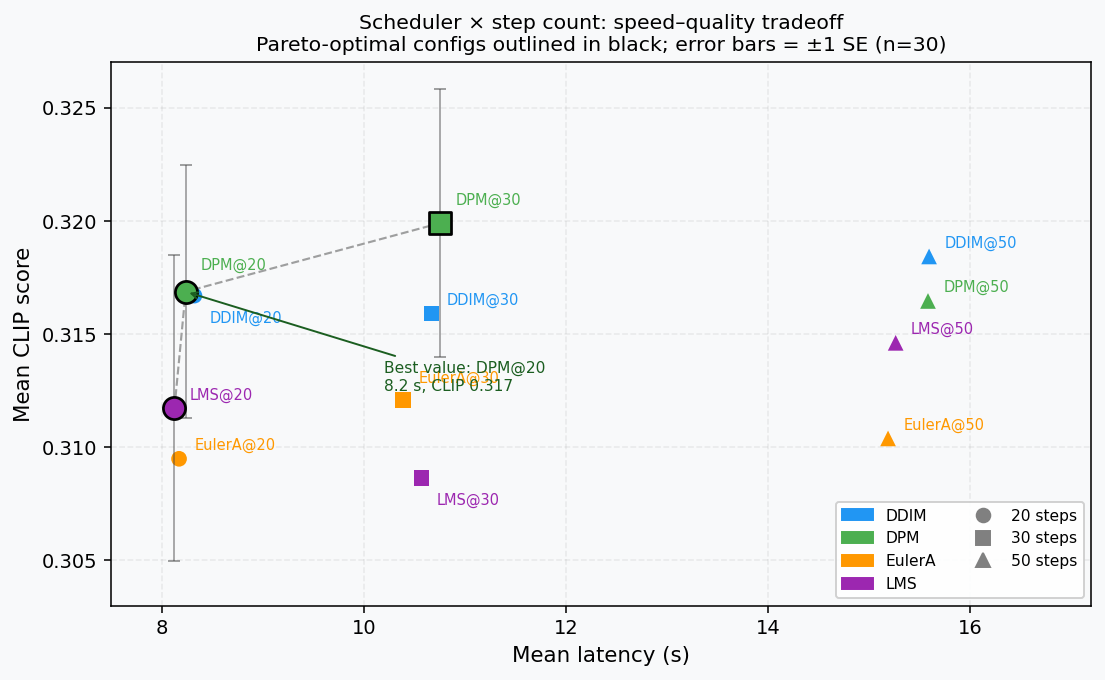
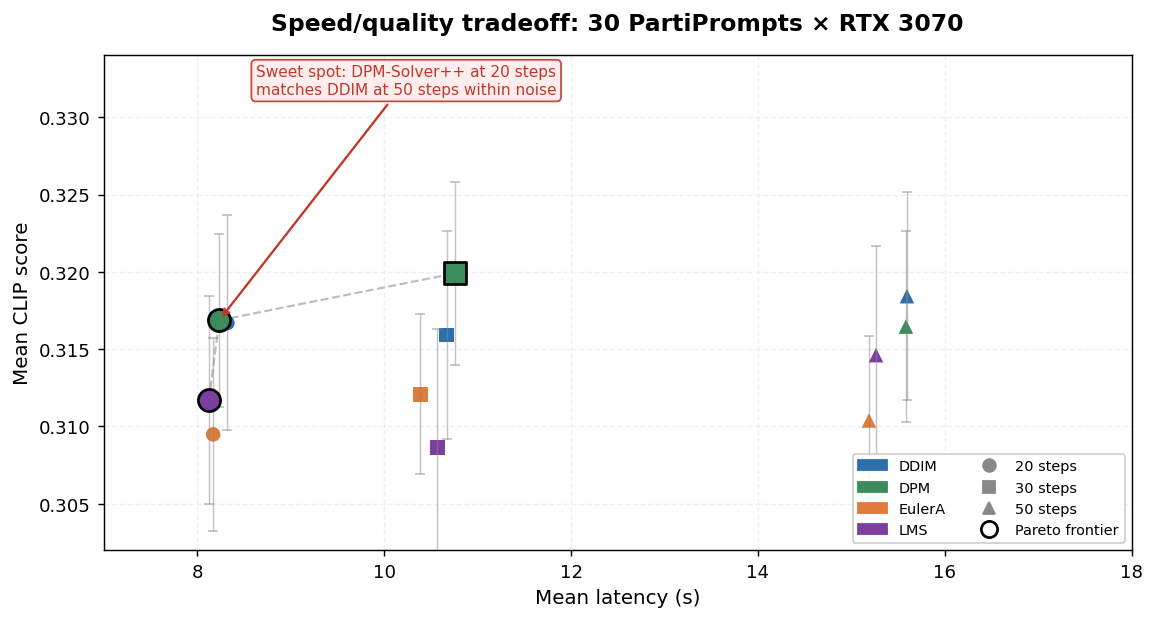
feat: regenerate benchmark charts with ChartCanvas; add hero image
- scripts/generate_benchmark_charts.py: new canonical chart script using
  ChartCanvas for collision-aware rendering; replaces _gen_findings_charts.py
  for the two Phase 4 charts
  - pareto_scatter: color=scheduler, shape=steps, RED callout on DPM@20,
    GREY error bars, frontier outlined in black, validate() passes clean
  - variance_decomposition: same y-axis scale on both panels (0.238-0.395);
    flat right panel is the visual finding; range annotations on both
- docs/gallery/00_hero_tokyo_neon_rain.png: copied from hero_candidates
  (gitignored), now tracked for use as the README hero
- .flake8: add E402 ignore for generate_benchmark_charts.py

diff --git a/scripts/generate_benchmark_charts.py b/scripts/generate_benchmark_charts.py
@@ -1,0 +1,265 @@
+"""
+Generate two benchmark charts for reports/findings.md.
+
+Reads:  reports/eval_results_20260425_124153.json
+Writes: reports/eval_charts/pareto_scatter.png
+        reports/eval_charts/variance_decomposition.png
+
+Run from project root:
+    python scripts/generate_benchmark_charts.py
+"""
+
+from __future__ import annotations
+
+import json
+import statistics
+import sys
+from collections import defaultdict
+from pathlib import Path
+
+ROOT = Path(__file__).resolve().parent.parent
+sys.path.insert(0, str(ROOT))
+
+import matplotlib  # noqa: E402
+
+matplotlib.use("Agg")  # must precede any pyplot import
+import matplotlib.lines as mlines  # noqa: E402
+import matplotlib.patches as mpatches  # noqa: E402
+import matplotlib.pyplot as plt  # noqa: E402
+import numpy as np  # noqa: E402
+
+from aetherart.visualization import (  # noqa: E402
+    BLUE,
+    GREEN,
+    GREY,
+    ORANGE,
+    PURPLE,
+    RED,
+    ChartCanvas,
+)
+
+DATA = ROOT / "reports" / "eval_results_20260425_124153.json"
+CHARTS = ROOT / "reports" / "eval_charts"
+CHARTS.mkdir(exist_ok=True)
+
+with open(DATA) as f:
+    d = json.load(f)
+results = d["results"]
+
+SCHEDULERS = ["DDIM", "DPM", "EulerA", "LMS"]
+STEPS = [20, 30, 50]
+SCHED_COLOR = {"DDIM": BLUE, "DPM": GREEN, "EulerA": ORANGE, "LMS": PURPLE}
+MARKER = {20: "o", 30: "s", 50: "^"}
+
+# ── Per-(scheduler, steps) aggregates ────────────────────────────────────────
+by_key: dict = defaultdict(list)
+for r in results:
+    by_key[(r["scheduler"], r["steps"])].append((r["clip_score"], r["latency_s"]))
+
+points = []
+for sched in SCHEDULERS:
+    for steps in STEPS:
+        vals = by_key[(sched, steps)]
+        clips = [v[0] for v in vals]
+        lats = [v[1] for v in vals]
+        points.append(
+            {
+                "sched": sched,
+                "steps": steps,
+                "clip": statistics.mean(clips),
+                "lat": statistics.mean(lats),
+                "se": statistics.stdev(clips) / len(clips) ** 0.5,
+            }
+        )
+
+# Pareto frontier: minimize latency AND maximize CLIP
+sorted_pts = sorted(points, key=lambda p: p["lat"])
+frontier: list = []
+max_clip = -1.0
+for p in sorted_pts:
+    if p["clip"] > max_clip:
+        frontier.append(p)
+        max_clip = p["clip"]
+
+# ── Chart 1: Speed–quality Pareto scatter ────────────────────────────────────
+canvas = ChartCanvas(
+    figsize=(9, 5.5),
+    title="Speed/quality tradeoff: 30 PartiPrompts × RTX 3070",
+    ylabel="Mean CLIP score",
+    xlabel="Mean latency (s)",
+    top_margin_pct=0.22,
+)
+canvas.set_ylim(0.302, 0.334)
+
+for p in points:
+    on_frontier = p in frontier
+    canvas.ax.scatter(
+        p["lat"],
+        p["clip"],
+        color=SCHED_COLOR[p["sched"]],
+        marker=MARKER[p["steps"]],
+        s=150 if on_frontier else 65,
+        zorder=3 if on_frontier else 2,
+        edgecolors="black" if on_frontier else "none",
+        linewidths=1.5 if on_frontier else 0,
+    )
+    canvas.ax.errorbar(
+        p["lat"],
+        p["clip"],
+        yerr=p["se"],
+        fmt="none",
+        color=GREY,
+        capsize=3,
+        linewidth=0.8,
+        alpha=0.5,
+    )
+
+# Dashed frontier line
+fpts = sorted(frontier, key=lambda p: p["lat"])
+canvas.ax.plot(
+    [p["lat"] for p in fpts],
+    [p["clip"] for p in fpts],
+    "--",
+    color=GREY,
+    linewidth=1.2,
+    alpha=0.55,
+    zorder=1,
+)
+
+# RED callout on DPM@20 (the sweet spot)
+dpm20 = next(p for p in points if p["sched"] == "DPM" and p["steps"] == 20)
+canvas.add_callout(
+    target_x=dpm20["lat"],
+    target_y=dpm20["clip"],
+    text="Sweet spot: DPM-Solver++ at 20 steps\nmatches DDIM at 50 steps within noise",
+    placement="top",
+    color=RED,
+    fontsize=8.5,
+    x_offset=2.0,
+)
+
+# Legend: color = scheduler, shape = step count, black edge = frontier
+sched_handles = [mpatches.Patch(color=SCHED_COLOR[s], label=s) for s in SCHEDULERS]
+step_handles = [
+    mlines.Line2D(
+        [],
+        [],
+        color=GREY,
+        marker=MARKER[st],
+        linestyle="None",
+        markersize=7,
+        label=f"{st} steps",
+    )
+    for st in STEPS
+]
+frontier_handle = mlines.Line2D(
+    [],
+    [],
+    color="black",
+    marker="o",
+    linestyle="None",
+    markersize=9,
+    markeredgewidth=1.5,
+    markerfacecolor="none",
+    label="Pareto frontier",
+)
+canvas.ax.legend(
+    handles=sched_handles + step_handles + [frontier_handle],
+    fontsize=8,
+    loc="lower right",
+    framealpha=0.9,
+    ncol=2,
+)
+canvas.ax.set_xlim(7.0, 18.0)
+canvas.ax.grid(True, alpha=0.18, linestyle="--")
+
+canvas.save(str(CHARTS / "pareto_scatter.png"))
+
+
+# ── Chart 2: Variance decomposition ──────────────────────────────────────────
+by_prompt: dict = defaultdict(list)
+by_sched: dict = defaultdict(list)
+for r in results:
+    by_prompt[r["prompt_id"]].append(r["clip_score"])
+    by_sched[r["scheduler"]].append(r["clip_score"])
+
+prompt_means = sorted(statistics.mean(v) for v in by_prompt.values())
+
+# Sort schedulers by mean CLIP ascending so the spread is most visible
+sched_sorted = sorted(
+    [(s, statistics.mean(by_sched[s])) for s in SCHEDULERS],
+    key=lambda x: x[1],
+)
+sched_names = [x[0] for x in sched_sorted]
+sched_vals = np.array([x[1] for x in sched_sorted])
+
+# Same y-axis scale on both panels — the flat right panel is the point
+YMIN, YMAX = 0.238, 0.395
+
+fig, (ax_left, ax_right) = plt.subplots(1, 2, figsize=(11, 5.5))
+fig.patch.set_facecolor("white")
+
+# Left: per-prompt strip chart
+left = ChartCanvas.from_axes(
+    ax_left, fig, title="Prompt-to-prompt variation (n=30)", ylabel="Mean CLIP score"
+)
+left.set_ylim(YMIN, YMAX)
+
+ax_left.scatter([0] * len(prompt_means), prompt_means, color=BLUE, s=40, alpha=0.75, zorder=3)
+ax_left.vlines(0, min(prompt_means), max(prompt_means), color=BLUE, linewidth=2.5, alpha=0.28)
+ax_left.set_xlim(-0.5, 1.5)
+ax_left.set_xticks([])
+
+p_range = max(prompt_means) - min(prompt_means)
+p_mid = (max(prompt_means) + min(prompt_means)) / 2
+ax_left.annotate(
+    f"Range = {p_range:.3f}",
+    xy=(0, p_mid),
+    xytext=(0.62, p_mid),
+    fontsize=9.5,
+    va="center",
+    color=BLUE,
+    fontweight="bold",
+    arrowprops=dict(arrowstyle="->", lw=1.0, color=BLUE),
+)
+
+# Right: per-scheduler bars
+right = ChartCanvas.from_axes(
+    ax_right, fig, title="Scheduler variation (n=4)", ylabel="Mean CLIP score"
+)
+right.set_ylim(YMIN, YMAX)
+
+bar_x = np.arange(len(sched_names), dtype=float)
+right.add_bars(
+    bar_x,
+    sched_vals,
+    colors=[SCHED_COLOR[s] for s in sched_names],
+    width=0.55,
+    value_fmt="{:.4f}",
+    value_pad=0.003,
+    value_size=9,
+)
+right.set_xticks(bar_x, sched_names, fontsize=10)
+ax_right.set_xlim(-0.6, len(sched_names) - 0.4 + 1.4)  # room for annotation
+
+s_range = float(max(sched_vals) - min(sched_vals))
+s_mid = float((max(sched_vals) + min(sched_vals)) / 2)
+ax_right.annotate(
+    f"Range = {s_range:.3f}\n(18× smaller than\nprompt range)",
+    xy=(bar_x[-1], float(max(sched_vals))),
+    xytext=(bar_x[-1] + 0.65, float(max(sched_vals)) + 0.012),
+    fontsize=8.5,
+    va="center",
+    color=GREY,
+    arrowprops=dict(arrowstyle="->", lw=0.9, color=GREY),
+)
+
+fig.suptitle(
+    "Variance decomposition: prompt choice dominates scheduler choice (18×)\n"
+    "Both panels share the same y-axis scale — the nearly-flat right panel is the finding",
+    fontsize=10.5,
+    fontweight="bold",
+    y=1.01,
+)
+
+ChartCanvas.save_fig(fig, str(CHARTS / "variance_decomposition.png"))